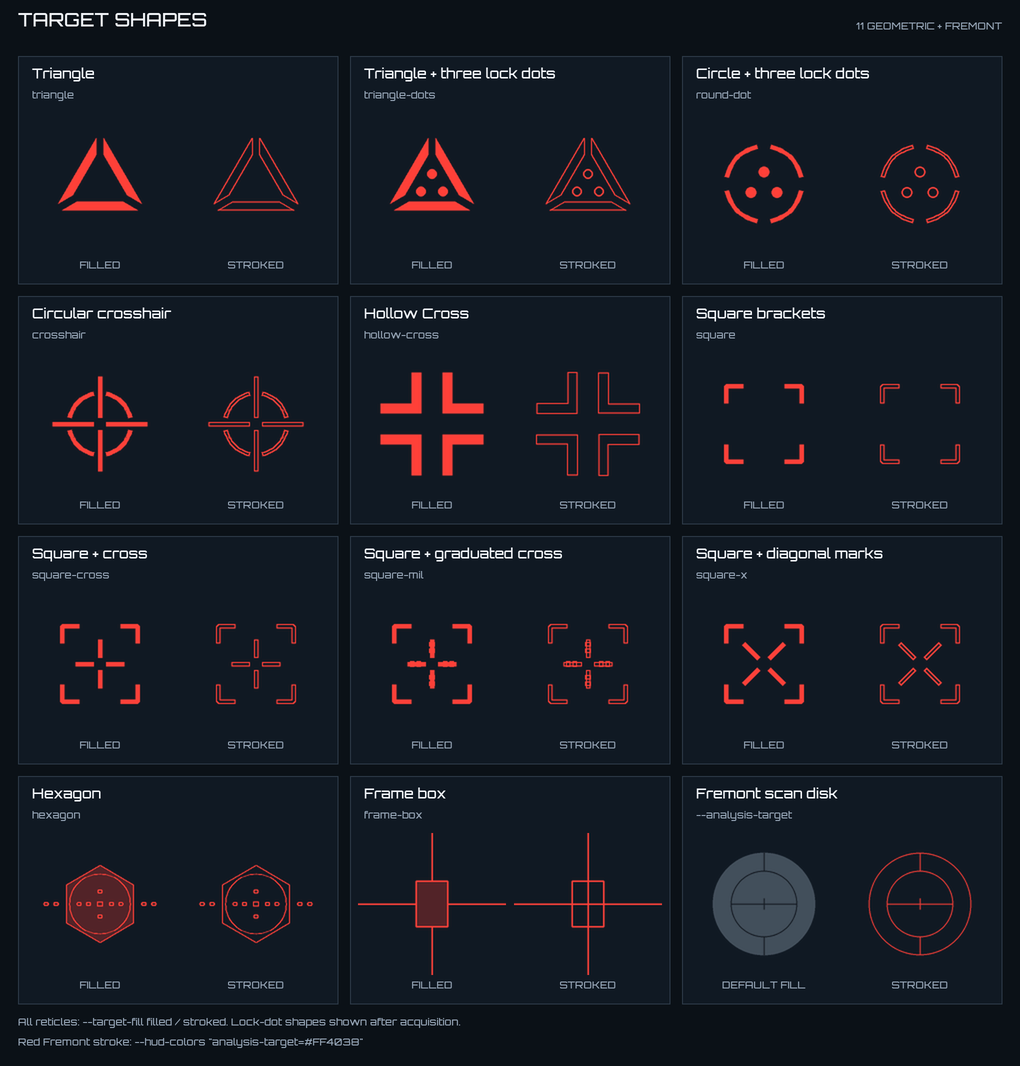
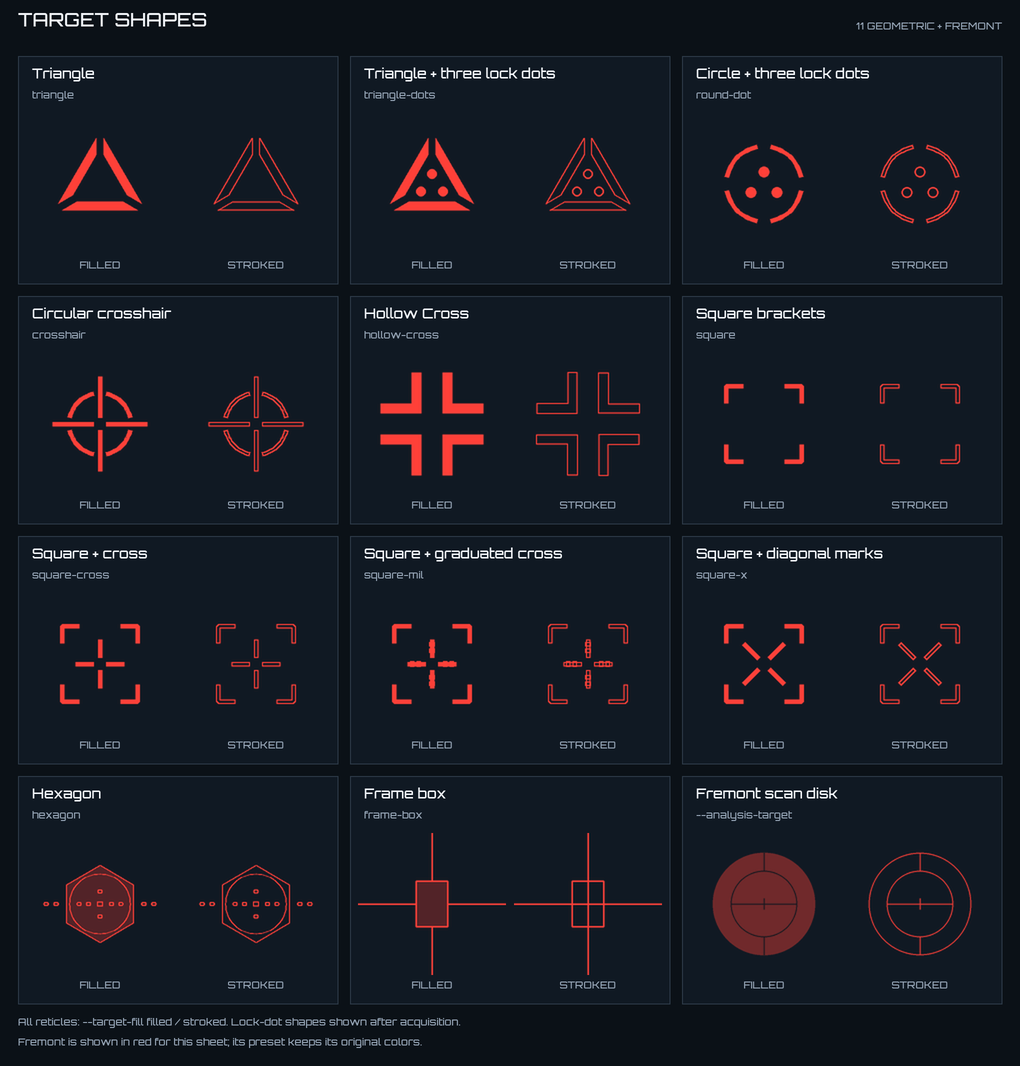
Emit Relic triangles from body center and tint Fremont catalog fill red

Changed region(s): [[0.699, 0.7739, 0.8206, 0.9287], [0.0304, 0.9597, 0.3951, 0.9906]]

diff --git a/src/yautja/geometry.py b/src/yautja/geometry.py
@@ -322,7 +322,7 @@ class GeometryStyle:
         renderer.composite_panel(image, panel, 0, 0)
 
     def motif_particles(self, seed, identity, time, static=False):
-        """Local ornaments rise, then collapse and spin away before respawning."""
+        """Ornaments emerge at their anchor, rise, then collapse and spin away."""
         rng = np.random.default_rng(stable_number(seed, 'motifs', identity))
         t = 0 if static else time * self.target_motif_speed
         for i in range(self.target_motif_count):
@@ -332,8 +332,8 @@ class GeometryStyle:
             phase = (t / lifetime + offset) % 1
             collapse = float(smoothstep((phase - .66) / .34))
             alpha = float(smoothstep(phase / .12) * (1 - smoothstep((phase - .80) / .20)))
-            yield {'index': i, 'x': math.cos(angle) * distance * self.target_motif_scale,
-                   'y': (math.sin(angle) * distance * 1.2 - .4 - phase * .7) * self.target_motif_scale,
+            yield {'index': i, 'x': math.cos(angle) * distance * .25 * phase * self.target_motif_scale,
+                   'y': -phase * self.target_motif_scale,
                    'radius': radius * self.target_motif_scale * (1-collapse)**1.2,
                    'rotation': (0 if direction == 1 else math.pi) + direction * math.tau * 1.15 * collapse**1.6,
                    'nested': nested, 'collapse': collapse, 'alpha': alpha, 'phase': phase, 'lifetime': lifetime}
@@ -452,15 +452,13 @@ class GeometryStyle:
             figures = {f'subject-{s.track_id}': (s, xx, yy) for s, xx, yy in attached}
             for identity, cx, cy, radius, opacity in motif_states:
                 for part in self.motif_particles(renderer.seed, identity, time, static):
-                    x, y = cx + radius * part['x'], cy + radius * part['y']
+                    x, y = cx + radius * part['x'], cy + radius * 3 * part['y']
                     if identity in figures:
                         subject, xx, yy = figures[identity]
-                        bw, bh = xx.max()-xx.min()+1, yy.max()-yy.min()+1
-                        rng = np.random.default_rng(stable_number(renderer.seed, 'motif-spawn', identity, part['index']))
-                        px, py = xx.min()+rng.uniform(.1,.9)*bw, yy.min()+rng.uniform(.03,.55)*bh
-                        nearest = np.argmin((xx-px)**2 + (yy-py)**2)
-                        x = xx[nearest] + cx-xx.mean()
-                        y = yy[nearest] + cy-yy.mean() - part['phase'] * bh * .25
+                        # Spawn at the selected silhouette's center of mass.
+                        # Height, rather than width or a held prop, sets the rise.
+                        bh = yy.max()-yy.min()+1
+                        y = cy + bh * .45 * part['y']
                     r = radius * part['radius']
                     alpha = round(255 * opacity * part['alpha'])
                     if r < .25 or not alpha:

diff --git a/tests/test_relic_motion.py b/tests/test_relic_motion.py
@@ -58,6 +58,8 @@ class RelicMotionTests(unittest.TestCase):
         period, offset = initial['lifetime'], initial['phase']
         def at(phase):
             return next(style.motif_particles(42,'one',(phase-offset+1)*period))
+        self.assertAlmostEqual(at(0)['x'],0)
+        self.assertAlmostEqual(at(0)['y'],0)
         early, middle, late, gone = [at(p) for p in (.2,.5,.9,.99999)]
         self.assertLess(middle['y'], early['y'])
         self.assertAlmostEqual(early['radius'],middle['radius'])
@@ -69,6 +71,31 @@ class RelicMotionTests(unittest.TestCase):
         self.assertEqual(list(style.motif_particles(42,'one',0,True)),list(style.motif_particles(42,'one',15,True)))
         frozen = GeometryStyle(target_motif_speed=0)
         self.assertEqual(list(frozen.motif_particles(42,'one',0)),list(frozen.motif_particles(42,'one',15)))
+
+    def test_attached_triangles_emerge_at_mass_center_then_rise(self):
+        size = (480, 360)
+        mask = np.zeros((360, 480), np.float32)
+        mask[55:320, 200:270] = 1
+        mask[130:145, 100:200] = 1  # Extended arm makes the bounding-box center wrong.
+        subject = Subject(mask, 'person', .95, track_id=1)
+        yy, xx = np.nonzero(mask)
+        cx, cy = xx.mean(), yy.mean()
+        height = yy.max() - yy.min() + 1
+        renderer = Renderer(*size, look_preset='relic', target_motif_count=1,
+                            target_motif_breaks=0, neon=False, glow=0)
+        initial = next(renderer.geometry.motif_particles(renderer.seed, 'subject-1', 0))
+        centers = []
+        for phase in (.08, .55):
+            time = (phase - initial['phase'] + 1) * initial['lifetime']
+            frame = renderer.draw_targets(Image.new('RGB', size), time, [subject],
+                                          None, ((0, 0, 0),) * 2, shot=1)
+            ink = np.asarray(frame).max(axis=2)
+            iy, ix = np.nonzero(ink > 8)
+            self.assertGreater(len(ix), 10)
+            centers.append((ix.mean(), iy.mean()))
+        self.assertLess(abs(centers[0][0] - cx), 5)
+        self.assertLess(abs(centers[0][1] - cy), height * .07)
+        self.assertGreater(centers[0][1] - centers[1][1], height * .16)
 
     def test_relic_has_three_times_the_streams_at_the_same_glyph_size(self):
         size, counts, glyph_sizes = (1920,1080), [], []

diff --git a/tools/build_target_sheet.py b/tools/build_target_sheet.py
@@ -16,12 +16,11 @@ LABELS = {'triangle': 'Triangle', 'triangle-dots': 'Triangle + three lock dots',
 
 
 def fremont_tile(size, filled):
-    # Match the other cards. Keep the filled preset's native translucent ink;
-    # show its true stroked geometry in the catalog's shared red.
+    # Red is catalog artwork only; the preset keeps its native translucent ink.
     background = Image.new('RGB', size, '#101923')
     options = {'target_fill': 'filled' if filled else 'stroked'}
-    if not filled:
-        options['hud_colors'] = 'analysis-target=#FF4038'
+    options['hud_colors'] = ('analysis-target-fill=#FF4038' if filled
+                             else 'analysis-target=#FF4038')
     renderer = Renderer(*size, look_preset='fremont', analysis_target_size=.72, glow=0, **options)
     target = renderer.analysis.target
     target.advance((.5, .5), 0, 0, size, static=True)
@@ -65,10 +64,10 @@ def build_sheet(destination):
             left = x+8+side*156
             canvas.paste(tile.resize((tile.width*ss,tile.height*ss),Image.Resampling.LANCZOS),
                          (left*ss,(y+57)*ss))
-            label = 'DEFAULT FILL' if shape == 'fremont-analysis' and side == 0 else fill.upper()
+            label = fill.upper()
             text(left+74,y+205,label,10,'#94a3b4','ma')
     text(margin,footer+14,'All reticles: --target-fill filled / stroked. Lock-dot shapes shown after acquisition.',10,'#94a3b4')
-    text(margin,footer+34,'Red Fremont stroke: --hud-colors "analysis-target=#FF4038"',10,'#94a3b4')
+    text(margin,footer+34,'Fremont is shown in red for this sheet; its preset keeps its original colors.',10,'#94a3b4')
     destination = Path(destination)
     destination.parent.mkdir(parents=True,exist_ok=True)
     canvas.resize((width,height),Image.Resampling.LANCZOS).save(destination)

diff --git a/README.md b/README.md
@@ -149,11 +149,11 @@ Use `--thermal-levels 6` or `--thermal-levels 20` for fewer or more bands, `--th
 
 Focus pairs a neon-purple HUD, glyphs and reticle with a blue grid and matching waveform. Straight-edged triangles form its slowly rotating geodesic sphere, so the mesh creates the curvature rather than bowed triangle sides. Broken lines fade toward the center. Satellite dots pulse away from vertices and return; some vertices carry seven-sided rings. Thin, partial blue holographic outlines shimmer along current subjects. One persistent hexagon glides between targets, containing the inset circle, six inner circles, four outer circles and a center square. The Focus preview is at the top of this page.
 
-Relic adds neon hot-pink triangles that spawn on the selected figure, rise, contract and spin away. Soft hot-pink filaments stream upward behind each body's core, using shoulders and hips for alignment instead of extended arms or held props. When pose information is unavailable, the solid body region supplies the center. Foreground silhouettes hide the trails and their glow. [`--code-style light`](https://github.com/petehottelet/yautja/blob/main/skills/yautja/references/options.md#code-style) selects this treatment; `glyphs` selects readable code. Focus keeps this effect off. Decorative yellow scan patches remain available with `--target-weak-spots`; both presets leave them off.
+Relic adds neon hot-pink triangles that emerge at the selected silhouette's center of mass, float upward, then contract and spin away. Soft hot-pink filaments stream upward behind each body's core, using shoulders and hips for alignment instead of extended arms or held props. When pose information is unavailable, the solid body region supplies the center. Foreground silhouettes hide the trails and their glow. [`--code-style light`](https://github.com/petehottelet/yautja/blob/main/skills/yautja/references/options.md#code-style) selects this treatment; `glyphs` selects readable code. Focus keeps this effect off. Decorative yellow scan patches remain available with `--target-weak-spots`; both presets leave them off.
 
 | Relic |
 | --- |
-| [![Relic: hot-pink ornaments and rising body-centered light streams with a purple HUD and blue grid](https://raw.githubusercontent.com/petehottelet/yautja/main/assets/examples/look-relic.gif?v=2.12.1-facets)](https://raw.githubusercontent.com/petehottelet/yautja/main/assets/examples/large/look-relic.gif?v=2.12.1-facets) |
+| [![Relic: hot-pink ornaments and rising body-centered light streams with a purple HUD and blue grid](https://raw.githubusercontent.com/petehottelet/yautja/main/assets/examples/look-relic.gif?v=2.12.1-center)](https://raw.githubusercontent.com/petehottelet/yautja/main/assets/examples/large/look-relic.gif?v=2.12.1-center) |
 
 <!-- example: {"id": "readme-focus", "tier": "models", "checks": {}} -->
 ```bash
@@ -402,9 +402,9 @@ All 11 target types support **`--target-fill filled`** and **`--target-fill stro
 
 Both previews play at normal source speed and 24 fps. The three dots appear only on lock and reset when the target is lost. The triangle's dots retain their 12% smaller diameter and now have 15% less spacing between their centers. The circle's dots retain their size and spacing. Click either GIF for the larger version.
 
-The complete contact sheet includes all **11 geometric shapes**, including both lock-dot designs, plus **Fremont's scan disk**. Each appears **filled on the left and stroked on the right**. Geometric labels give the corresponding `--target-shape` value. Fremont uses `--analysis-target` and the same `--target-fill` control; its stroked version traces the outer circle, inner circle and crosshair. The example colors these outlines red with `--hud-colors "analysis-target=#FF4038"`. Its controls are explained in the [analysis guide](https://github.com/petehottelet/yautja/blob/main/skills/yautja/references/analysis.md).
+The complete contact sheet includes all **11 geometric shapes**, including both lock-dot designs, plus **Fremont's scan disk**. Each appears **filled on the left and stroked on the right**. Geometric labels give the corresponding `--target-shape` value. Fremont uses `--analysis-target` and the same `--target-fill` control; its stroked version traces the outer circle, inner circle and crosshair. Both Fremont samples are red for this PNG; the preset retains its original translucent gray fill and dark marks. Its controls are explained in the [analysis guide](https://github.com/petehottelet/yautja/blob/main/skills/yautja/references/analysis.md).
 
-[![Complete target contact sheet: all 11 geometric shapes including triangle and circle with three lock dots, plus Fremont's translucent scan disk](https://raw.githubusercontent.com/petehottelet/yautja/main/assets/examples/target-shapes.png?v=2.12.1-fremont-stroke)](https://raw.githubusercontent.com/petehottelet/yautja/main/assets/examples/target-shapes.png?v=2.12.1-fremont-stroke)
+[![Complete target contact sheet: all 11 geometric shapes including triangle and circle with three lock dots, plus Fremont's translucent scan disk](https://raw.githubusercontent.com/petehottelet/yautja/main/assets/examples/target-shapes.png?v=2.12.1-red-fill)](https://raw.githubusercontent.com/petehottelet/yautja/main/assets/examples/target-shapes.png?v=2.12.1-red-fill)
 
 ```bash
 yautja "clip.mov" "filled.mp4" --stylepreset yautja --figures "figures.json" --target S001-F002 --target-shape triangle-dots --target-fill filled

diff --git a/skills/yautja/references/targets.md b/skills/yautja/references/targets.md
@@ -169,4 +169,4 @@ Vocoder Bars use one vertical stack of rounded horizontal rows, alternating shor
 
 All 11 target types accept `--target-fill filled` and `--target-fill stroked`. Filled mode uses solid marks and dots, plus translucent enclosed interiors. Stroked mode traces the edges of every mark: blades, curved bands, crosshairs and brackets become hollow outlines, and lock dots become rings. Thin enclosure lines remain contours. `auto` keeps each shape's original treatment. `--target-stroke` is a separate optional colored border. `--target-mode cycle` selects one subject at a time, and `--target-hold` sets its dwell time. Persistent motion uses `--target-response`; current-mask outlines use `--target-outline` and the independent `target-outline` HUD role. Caption size and blinking cursor are controlled by `--target-label-scale` and `--target-cursor`. See the [full ranges and examples](focus.md#grid-targets-and-captions).
 
-The three lock dots in `triangle-dots` retain their 12% smaller diameter, with center-to-center spacing reduced by 15% around the cluster's existing center. Acquisition timing is unchanged. The `round-dot` dots retain their size and spacing. The README shows these two animations at normal source speed and 24 fps, followed by a [complete target contact sheet](https://github.com/petehottelet/yautja/blob/main/assets/examples/target-shapes.png) of all 11 geometric shapes plus Fremont's scan disk. Geometric shapes appear filled and stroked, with lock dots visible after acquisition. Fremont uses `--analysis-target` and the shared `--target-fill` control. Its comparison shows the default translucent disk and a red stroked version with outer circle, inner circle and crosshair, on the same neutral background. Set `--target-fill stroked --hud-colors "analysis-target=#FF4038"` for the illustrated outlines. See [Fremont's analysis controls](analysis.md).
+The three lock dots in `triangle-dots` retain their 12% smaller diameter, with center-to-center spacing reduced by 15% around the cluster's existing center. Acquisition timing is unchanged. The `round-dot` dots retain their size and spacing. The README shows these two animations at normal source speed and 24 fps, followed by a [complete target contact sheet](https://github.com/petehottelet/yautja/blob/main/assets/examples/target-shapes.png) of all 11 geometric shapes plus Fremont's scan disk. Geometric shapes appear filled and stroked, with lock dots visible after acquisition. Fremont uses `--analysis-target` and the shared `--target-fill` control. Its filled disk and stroked outer circle, inner circle and crosshair are shown in red on the same neutral background. This color override is confined to the PNG; the preset retains its original translucent gray fill and dark marks. Set `--target-fill stroked --hud-colors "analysis-target=#FF4038"` for the illustrated outlines, or `--target-fill filled --hud-colors "analysis-target-fill=#FF4038"` for the illustrated fill. See [Fremont's analysis controls](analysis.md).

diff --git a/skills/yautja/references/focus.md b/skills/yautja/references/focus.md
@@ -6,7 +6,7 @@ All capabilities are shared options; presets only provide saved values. See the 
 
 **Focus** preserves scene detail under a dark, restrained blue tint. Neon-purple HUD glyphs and targeting contrast with a blue grid and matching waveform. Its geodesic sphere slowly rotates, with broken lines fading toward the center, pulsing satellite dots and occasional seven-sided rings. Thin, partial blue holographic subject edges shimmer with pale highlights. One persistent hexagon glides between subjects, with a large circle at 90% of the inscribed radius, six small inner circles, four outer circles and a center square.
 
-**Relic** inherits Focus's scene, purple HUD and blue grid. Neon hot-pink broken triangles spawn on the selected figure, rise gently, then contract, spin and fade. Soft hot-pink light filaments stream upward behind the body core, aligned to shoulder/hip joints with a solid-body mask fallback. Arms and held props do not widen the light column. All foreground silhouettes occlude the trails and their glow. [`--code-style`](options.md#code-style) selects `light` or `glyphs`; `--code-size`, `--code-density` and `--code-speed` control stream spacing/width, count and upward motion. Focus leaves this effect off. Both presets leave decorative weak-spot patches off; the optional capability remains available.
+**Relic** inherits Focus's scene, purple HUD and blue grid. Neon hot-pink broken triangles emerge at the selected silhouette's center of mass, float upward, then contract, spin and fade. Soft hot-pink light filaments stream upward behind the body core, aligned to shoulder/hip joints with a solid-body mask fallback. Arms and held props do not widen the light column. All foreground silhouettes occlude the trails and their glow. [`--code-style`](options.md#code-style) selects `light` or `glyphs`; `--code-size`, `--code-density` and `--code-speed` control stream spacing/width, count and upward motion. Focus leaves this effect off. Both presets leave decorative weak-spot patches off; the optional capability remains available.
 
 **Murphy** uses a slight blue source cast, glowing green center-crossing XY box, selected-subject outline and a large Michroma caption with a synthesized medium weight and blinking underscore. Automatic targeting needs no catalog. Its upper-right readout and waveform are hidden by preset opacity.
 

diff --git a/CHANGELOG.md b/CHANGELOG.md
@@ -2,9 +2,10 @@
 
 ## 2.12.1
 
+- Emit Relic triangles from the selected silhouette's center of mass, then float them upward before they contract and spin out. Refresh both normal-speed Relic previews.
 - Draw the spherical geodesic grid with straight triangle edges, letting the 3D mesh form the curved surface. Preserve rotation, center fade, broken edges, pulsing satellites and node rings in Focus and Relic.
 - Use Michroma with a synthesized medium weight for Murphy. Add the portable `michroma-medium` HUD font choice for captions, Tech glyphs and analysis, with accurate weight reporting and unchanged bundled font files.
-- Apply the shared filled/stroked control to Fremont's scan disk, with a clear interior and complete outer/inner circles in stroked mode. Show its red outlined variant and default translucent fill on neutral contact-sheet backgrounds.
+- Apply the shared filled/stroked control to Fremont's scan disk, with a clear interior and complete outer/inner circles in stroked mode. Show both variants in red on neutral contact-sheet backgrounds, retaining the preset's original colors.
 - Separate Focus/Relic's neon-purple HUD and glyphs from their blue grid and matching waveform. Make holographic outlines 25% thinner and bluer; give Relic's body-centered light streams and triangles a distinct violet-leaning neon pink glow matched to the reference.
 - Center Relic's effect on the body core using shoulder/hip joints with a mask fallback, and replace its readable code with soft rising light filaments. Add portable [`--code-style`](skills/yautja/references/options.md#code-style) (`glyphs` or `light`); Netrunner retains glyphs and Focus keeps the effect off.
 - Bring the triangle's three lock dots 15% closer together while retaining their existing sizes and cluster center. Refresh the triangle previews and complete target contact sheet.
